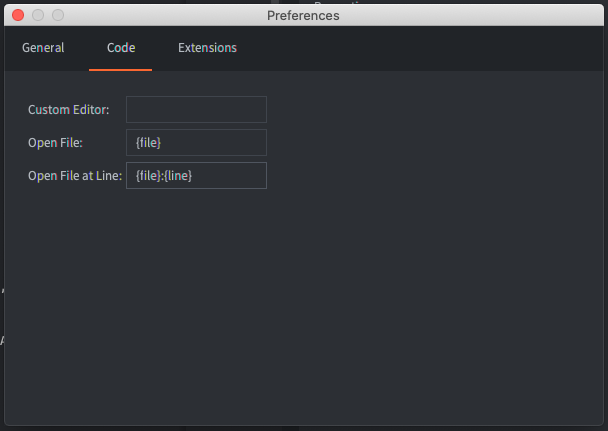
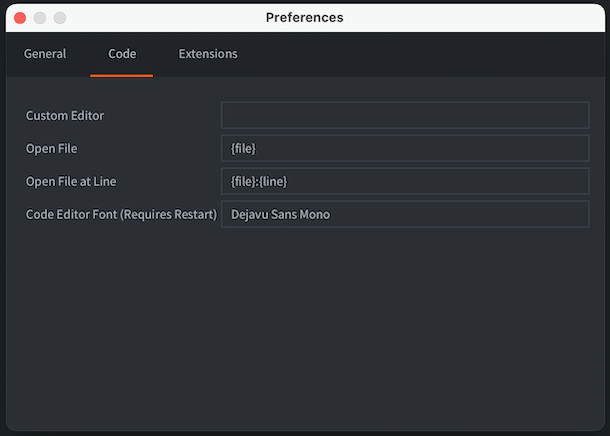
update screenshots and add explanations (#325)

diff --git a/docs/en/manuals/editor-preferences.md b/docs/en/manuals/editor-preferences.md
@@ -9,7 +9,13 @@ You can modify the settings of the editor from the Preferences window. The prefe
 
 ## General
 
-![](images/editor/preferences_general.png)
+![](images/editor/preferences_general.png){srcset="images/editor/preferences_general@2x.png 2x"}
+
+Load External Changes on App Focus
+: Enables scanning for external changes when the editor receives focus.
+
+Open Bundle Target Folder
+: Enables opening of the target bundle folder after bundling process is done.
 
 Enable Texture Compression
 : Enables [texture compression](/manuals/texture-profiles) for all builds made from the editor.
@@ -23,13 +29,10 @@ Track Active Tab in Asset Browser
 Path to custom keymap
 : Absolute path to a file containing [custom keyboard shortcuts](/manuals/editor-keyboard-shortcuts).
 
-Code editor font
-: Name of a system installed font to use in the code editor.
-
 
 ## Code
 
-![](images/editor/preferences_code.png)
+![](images/editor/preferences_code.png){srcset="images/editor/preferences_code@2x.png 2x"}
 
 Custom Editor
 : Absolute path to an external editor. On macOS it should be the path to the executable inside the .app (eg `/Applications/Atom.app/Contents/MacOS/Atom`).
@@ -40,10 +43,17 @@ Open File
 Open File at Line
 : The pattern used by the custom editor to specify which file to open and on which line number. The pattern `{file}` will be replaced by the filename to open and `{line}` by the line number.
 
+Code editor font
+: Name of a system installed font to use in the code editor.
+◊
+
 
 ## Extensions
 
-![](images/editor/preferences_extensions.png)
+![](images/editor/preferences_extensions.png){srcset="images/editor/preferences_extensions@2x.png 2x"}
 
 Build Server
 : URL to the build server used when building a project containing [native extensions](/manuals/extensions). It is possible to add a username and access token to the URL for authenticated access to the build server. Use the following notation to specify the username and access token: `username:token@build.defold.com`. Authenticated access is required for Nintendo Switch builds and when running your own build server instance with authentication enabled ([refer to the build server documentation](https://github.com/defold/extender/blob/dev/README_SECURITY.md) for more information). The username and password can also be set as the system environment variables `DM_EXTENDER_USERNAME` and `DM_EXTENDER_PASSWORD`.
+
+Build Server Headers
+: additional headers to the build server when building native extensions. It's important for using CloudFlare service or similar services with extender.
